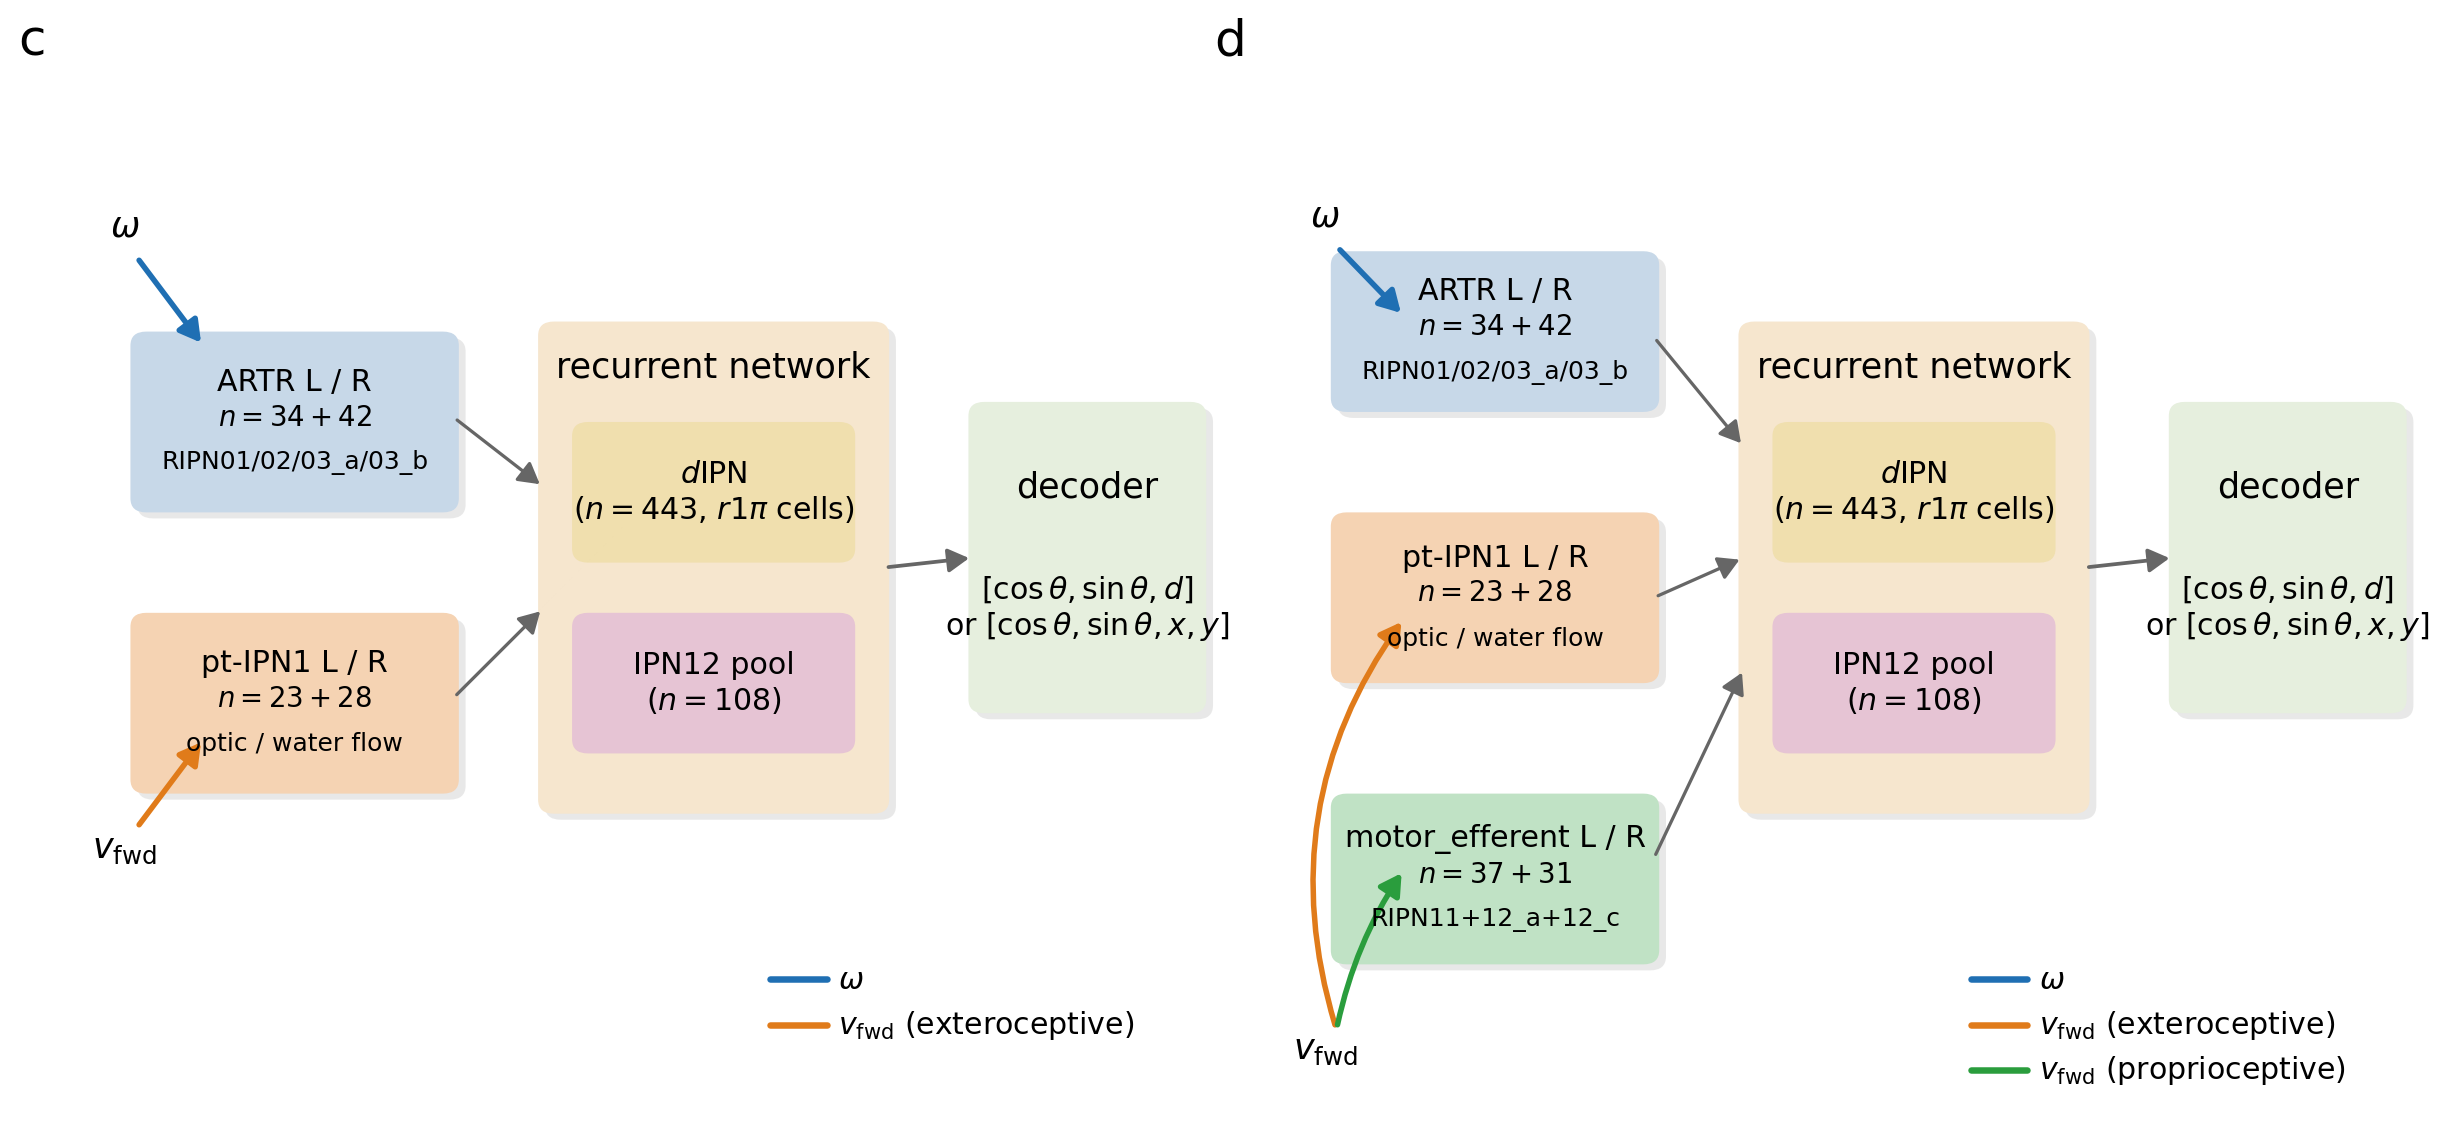
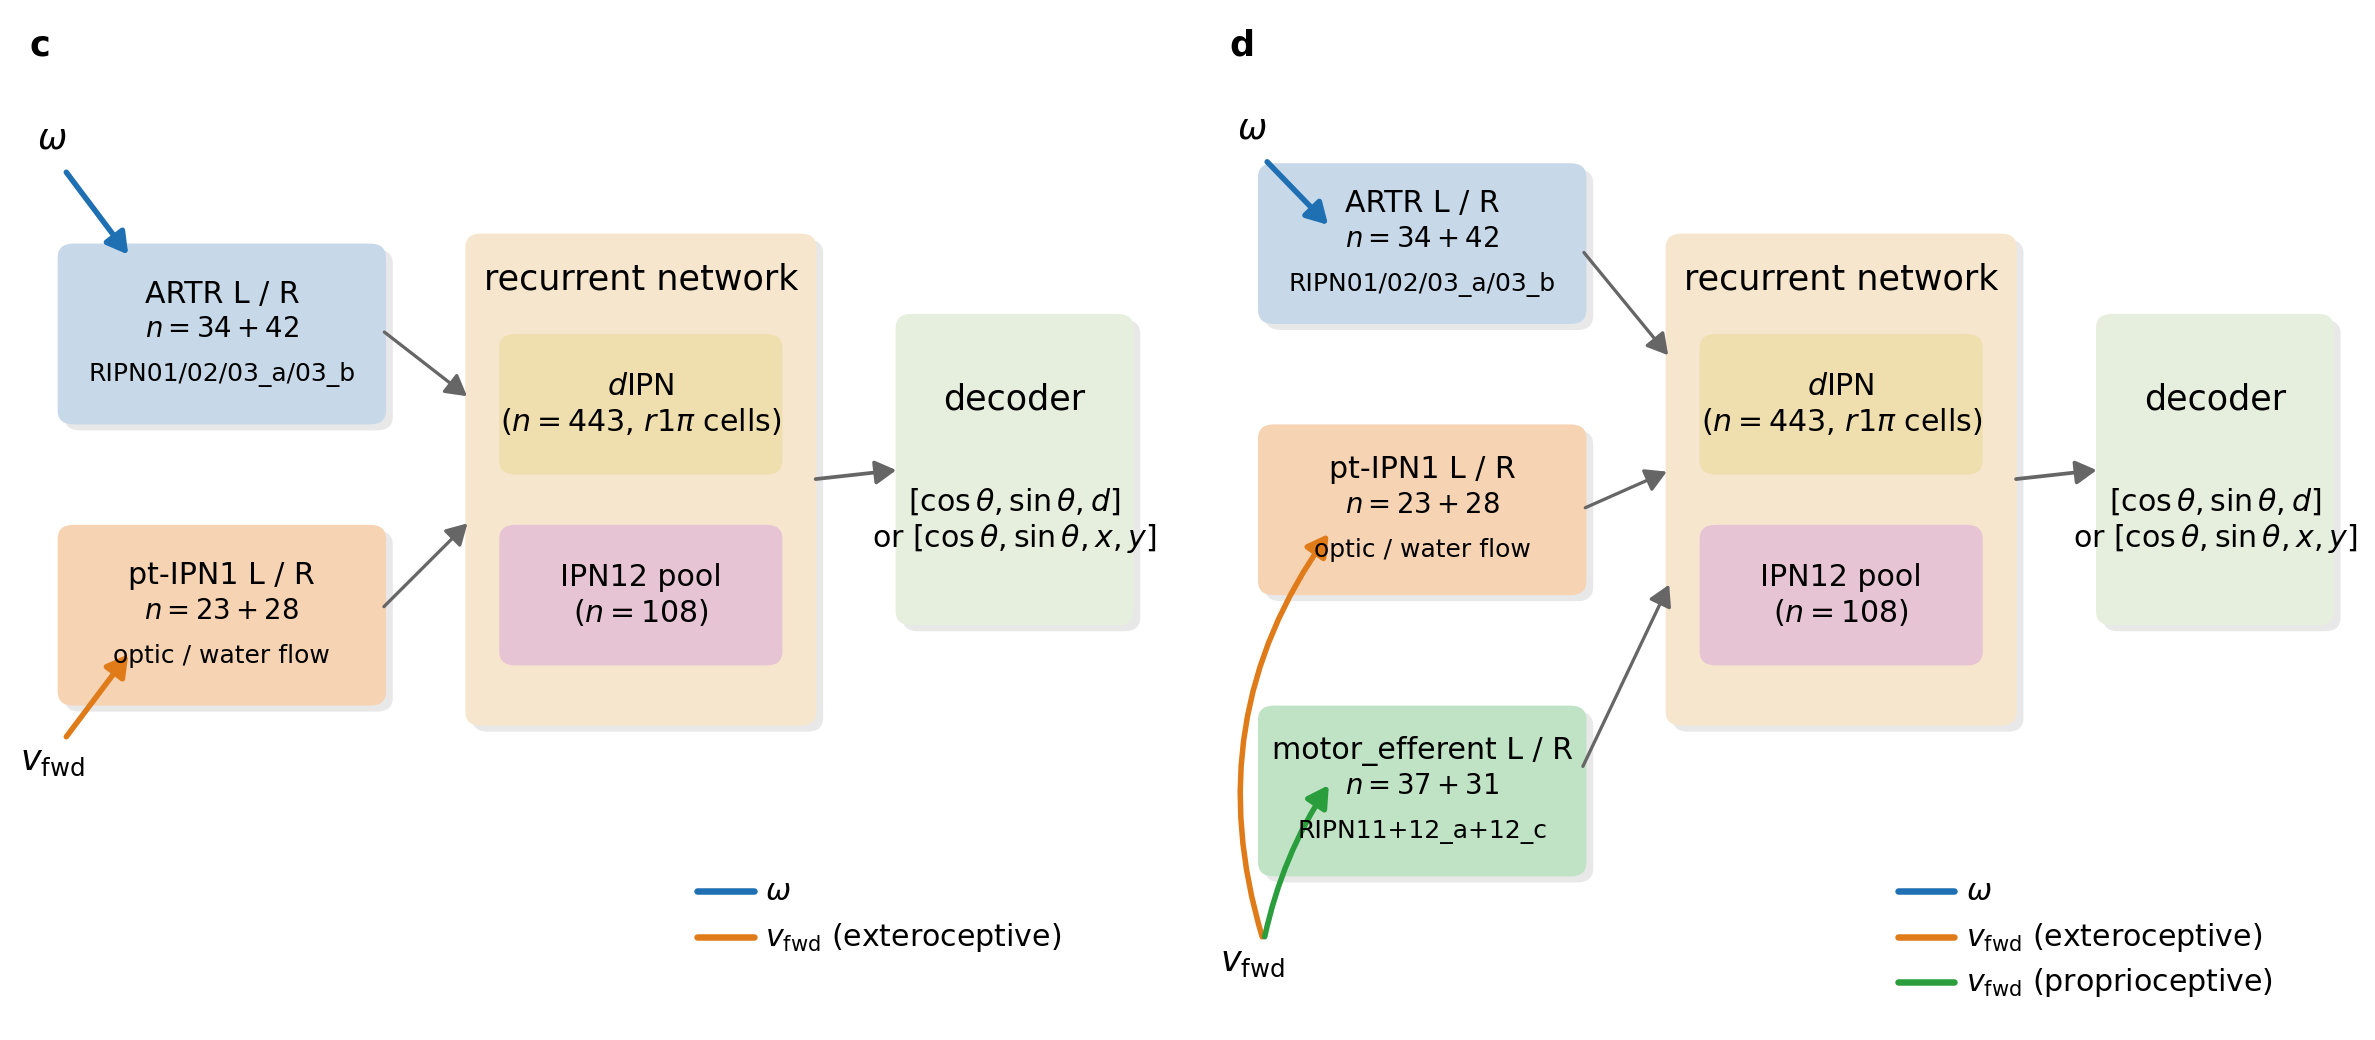
Figure 1: white anatomy background, matching bold panel labels; Figure 2: drop violins and binary-support panel, partition matrix becomes (a)
* fig_zebrafish_anatomy_3d_HD.py: default --bg switched from black to white so panels (a, b) match the manuscript page; panel-letter fontsize bumped to 14 (was 10) to match the circuit-diagram labels in panels (c, d).
* fig_zebrafish_circuit_variants.py: panel labels are now bold and positioned at the top-left at fontsize 14 — matching the anatomy figure's a/b convention so the merged 4-panel Figure 1 reads consistently.
* docs/zebrafish.tex: Figure 1 now uses \textwidth for the anatomy strip too (was 0.92), so (a, b) and (c, d) render at the same horizontal scale.
* fig_connectome_summary_HD_IPN12.py: drop the violin panels (e, f) and the binary-support panel; the figure is now a 1×3 strip with (a) = the partition-sorted matrix (was d), (b) = signed W^con v1, (c) = signed W^con v2. Caption updated to match.

diff --git a/figures/zebrafish/fig_connectome_summary_HD_IPN12.py b/figures/zebrafish/fig_connectome_summary_HD_IPN12.py
@@ -9,21 +9,16 @@ recurrent pool. Two circuits are built from the same topology:
                                   (glutamatergic / excitatory hypothesis)
 Only the IPN12 outgoing sign differs; the support is identical.
 
-2 x 3 panels:
-  (a) Binary support mask supp(W_con) (shared by v1 and v2).
-  (b) Signed W_con, v1 (IPN12 inhibitory), z-scored over non-zero
-      entries and clipped to +/-3.
-  (c) Signed W_con, v2 (IPN12 excitatory), same scale.
-  (d) Support mask with neurons sorted by the six-way functional
+1 x 3 panels:
+  (a) Support mask with neurons sorted by the six-way functional
       partition introduced in the proprioception circuit (ARTR,
       pt-IPN1, motor_efferent, dIPN, IPN12 pool, other), with
       colour-coded axis strips marking each block. Colour code is
       shared with Figure 1 of zebrafish.tex so the two figures read
       together.
-  (e) Per-cell-type INCOMING edge-weight distributions (violins,
-      v1 vs v2) on the coarse type categories.
-  (f) Per-cell-type OUTGOING edge-weight distributions (violins,
-      v1 vs v2).
+  (b) Signed W_con, v1 (IPN12 inhibitory), z-scored over non-zero
+      entries and clipped to +/-3.
+  (c) Signed W_con, v2 (IPN12 excitatory), same scale.
 
 Output: figures/zebrafish/fig_connectome_summary_HD_IPN12.png
 """
@@ -342,30 +337,16 @@ def main():
     # Shared z-score reference so v1 and v2 matrices are directly comparable.
     ref_nz = np.concatenate([W1[W1 != 0], W2[W2 != 0]])
 
-    # Layout: a = support, b = W_con v1, c = W_con v2,
-    #         d = partition-sorted matrix (NEW), e = incoming violins
-    #         (was d), f = outgoing violins (was e). The old IPN12
-    #         sign-flip histogram is removed.
-    fig, axes = plt.subplots(2, 3, figsize=(17, 11))
-    _panel_mask(axes[0, 0], W1, nt, names)
-    _panel_W(axes[0, 1], W1, nt, names, ref_nz=ref_nz,
+    # Layout: a = partition-sorted matrix, b = W_con v1, c = W_con v2.
+    fig, axes = plt.subplots(1, 3, figsize=(17, 6))
+    _panel_partition_matrix(axes[0], W1, partition)
+    _panel_W(axes[1], W1, nt, names, ref_nz=ref_nz,
              title=r"$W^{\mathrm{con}}$ v1 — IPN12 inhibitory")
-    _panel_W(axes[0, 2], W2, nt, names, ref_nz=ref_nz,
+    _panel_W(axes[2], W2, nt, names, ref_nz=ref_nz,
              title=r"$W^{\mathrm{con}}$ v2 — IPN12 excitatory")
-    _panel_partition_matrix(axes[1, 0], W1, partition)
-    _paired_violin(axes[1, 1],
-                   _collect(W1, coarse, "incoming"),
-                   _collect(W2, coarse, "incoming"),
-                   ylabel=r"signed $W^{\mathrm{con}}_{ij}$ (incoming)",
-                   title="incoming edge weights (post = category)")
-    _paired_violin(axes[1, 2],
-                   _collect(W1, coarse, "outgoing"),
-                   _collect(W2, coarse, "outgoing"),
-                   ylabel=r"signed $W^{\mathrm{con}}_{ij}$ (outgoing)",
-                   title="outgoing edge weights (pre = category)")
 
     for k, ax in enumerate(axes.flat):
-        ax.text(-0.12, 1.05, "abcdef"[k], transform=ax.transAxes,
+        ax.text(-0.12, 1.05, "abc"[k], transform=ax.transAxes,
                 ha="left", va="top", fontsize=14, fontweight="bold")
 
     plt.tight_layout()

diff --git a/docs/zebrafish.tex b/docs/zebrafish.tex
@@ -188,7 +188,7 @@ flow and water-flow signals).
 
 \begin{figure}[H]
   \centering
-  \includegraphics[width=0.92\textwidth]{\figdir/fig_zebrafish_anatomy_3d_HD.png}\\[0.6em]
+  \includegraphics[width=\textwidth]{\figdir/fig_zebrafish_anatomy_3d_HD.png}\\[0.6em]
   \includegraphics[width=\textwidth]{\figdir/fig_zebrafish_circuit_variants.png}
   \caption{\textbf{Zebrafish HD / IPN circuit --- anatomy
   (\textbf{a}, \textbf{b}) and afferent partition (\textbf{c},
@@ -246,29 +246,20 @@ edges are the only entries whose sign differs between \textbf{v1} and \textbf{v2
   only the $3{,}536$ IPN12 outgoing edges change sign. $E\!:\!I$ is
   $10{,}020\!:\!12{,}405$ ($44.7\%$ / $55.3\%$) for \textbf{v1}  and
   $13{,}556\!:\!8{,}869$ ($60.5\%$ / $39.5\%$) for \textbf{v2} .
-  \textbf{(a)} Binary support $\mathrm{supp}(W^{\mathrm{con}})$
-  (block boundaries in red).
+  \textbf{(a)} Support mask with neurons sorted by the six-way
+  functional partition introduced in \cref{fig:zhd_3d} ---
+  \emph{dIPN} (amber, $n=443$), \emph{IPN12 pool} (rose, $n=108$),
+  \emph{ARTR} (blue, $n=76$), \emph{pt-IPN1} (orange, $n=51$),
+  \emph{motor\_efferent} (green, $n=68$), and \emph{other} (grey,
+  $n=93$). Colour-coded strips on the row and column axes mark each
+  partition block, and translucent column bands inside the matrix
+  carry the same colour code; colours match \cref{fig:zhd_3d} so the
+  partition reads consistently across the anatomy, connectome, and
+  circuit diagrams.
   \textbf{(b)} Signed $W^{\mathrm{con}}$ for \textbf{v1} (IPN12 inhibitory),
   $z$-scored.
   \textbf{(c)} Signed $W^{\mathrm{con}}$ for \textbf{v2} (IPN12 excitatory),
-  same scale.
-  \textbf{(d)} Same support mask as \textbf{(a)} but with neurons sorted
-  by the six-way functional partition introduced in
-  \cref{fig:zhd_3d} --- \emph{dIPN} (amber, $n=443$),
-  \emph{IPN12 pool} (rose, $n=108$), \emph{ARTR} (blue, $n=76$),
-  \emph{pt-IPN1} (orange, $n=51$), \emph{motor\_efferent} (green,
-  $n=68$), and \emph{other} (grey, $n=93$). Colour-coded strips on the
-  row and column axes mark each partition block; colours match
-  \cref{fig:zhd_3d} so the partition reads consistently across the
-  two anatomy / connectome figures and the circuit diagram of
-  \cref{fig:zhd_3d}.
-  \textbf{(e)} Per-category \emph{incoming} edge-weight distributions
-  (violins, post-synaptic neuron in the category) for \textbf{v1}  (blue) and
-  \textbf{v2} (red), over the five coarse type categories \emph{IPNd},
-  \emph{IPNds}, \emph{IPN12}, \emph{RIPN}, \emph{pt-IPN}.
-  \textbf{(f)} Per-category \emph{outgoing} edge-weight distributions
-  (pre-synaptic neuron in the category); the \emph{IPN12} violin is
-  the only one that moves from negative (v1) to positive (v2).}
+  same scale.}
   \label{fig:zhd_connectome_summary}
 \end{figure}
 

diff --git a/figures/zebrafish/fig_zebrafish_circuit_variants.py b/figures/zebrafish/fig_zebrafish_circuit_variants.py
@@ -25,8 +25,10 @@ import numpy as np
 from matplotlib.patches import FancyArrowPatch, FancyBboxPatch
 
 # --- Style ------------------------------------------------------------------
-# Larger fonts throughout, no bold anywhere, no box outlines.
-PANEL_LABEL_FS = 20
+# Larger fonts throughout, no box outlines. Panel labels match the
+# anatomy figure's a/b labels (bold, fontsize 14) so the merged figure
+# reads consistently.
+PANEL_LABEL_FS = 14
 TITLE_FS = 14
 LABEL_FS = 12
 COUNT_FS = 11
@@ -53,10 +55,10 @@ COL_DEC_FILL = "#e6efde"      # decoder readout (pale leaf)
 
 
 def _panel_label(ax, letter: str):
-    # Push the letter a bit further outside the axes so the larger
-    # in-panel labels don't collide with it.
-    ax.text(-0.04, 1.04, letter, transform=ax.transAxes,
-            fontsize=PANEL_LABEL_FS, va="bottom", ha="right")
+    # Top-left, bold — matches the anatomy figure's a/b labels.
+    ax.text(0.01, 0.99, letter, transform=ax.transAxes,
+            fontsize=PANEL_LABEL_FS, fontweight="bold",
+            va="top", ha="left")
 
 
 # ---------------------------------------------------------------------------

diff --git a/figures/zebrafish/fig_zebrafish_anatomy_3d_HD.py b/figures/zebrafish/fig_zebrafish_anatomy_3d_HD.py
@@ -432,7 +432,7 @@ def _render_fast(nl, types, rois, output_path,
         ax.set_axis_off()
         if ax_soma is not None:
             ax.text(0.01, 0.99, panel_letters[i], transform=ax.transAxes,
-                    ha="left", va="top", fontsize=10, fontweight="bold",
+                    ha="left", va="top", fontsize=14, fontweight="bold",
                     color=text_color)
 
     _add_legend(legend_ax, type_counts, draw_order, text_color)
@@ -630,7 +630,7 @@ def main():
     p.add_argument("--elev", type=float, default=90.0)
     p.add_argument("--azim", type=float, default=-90.0)
     p.add_argument("--roll", type=float, default=0.0)
-    p.add_argument("--bg", default="black", choices=["black", "white"])
+    p.add_argument("--bg", default="white", choices=["black", "white"])
     p.add_argument("--with_soma_panel", action="store_true",
                    help="render a 2-panel figure stacked vertically: "
                         "(a) skeletons on top, (b) just the soma cell "
